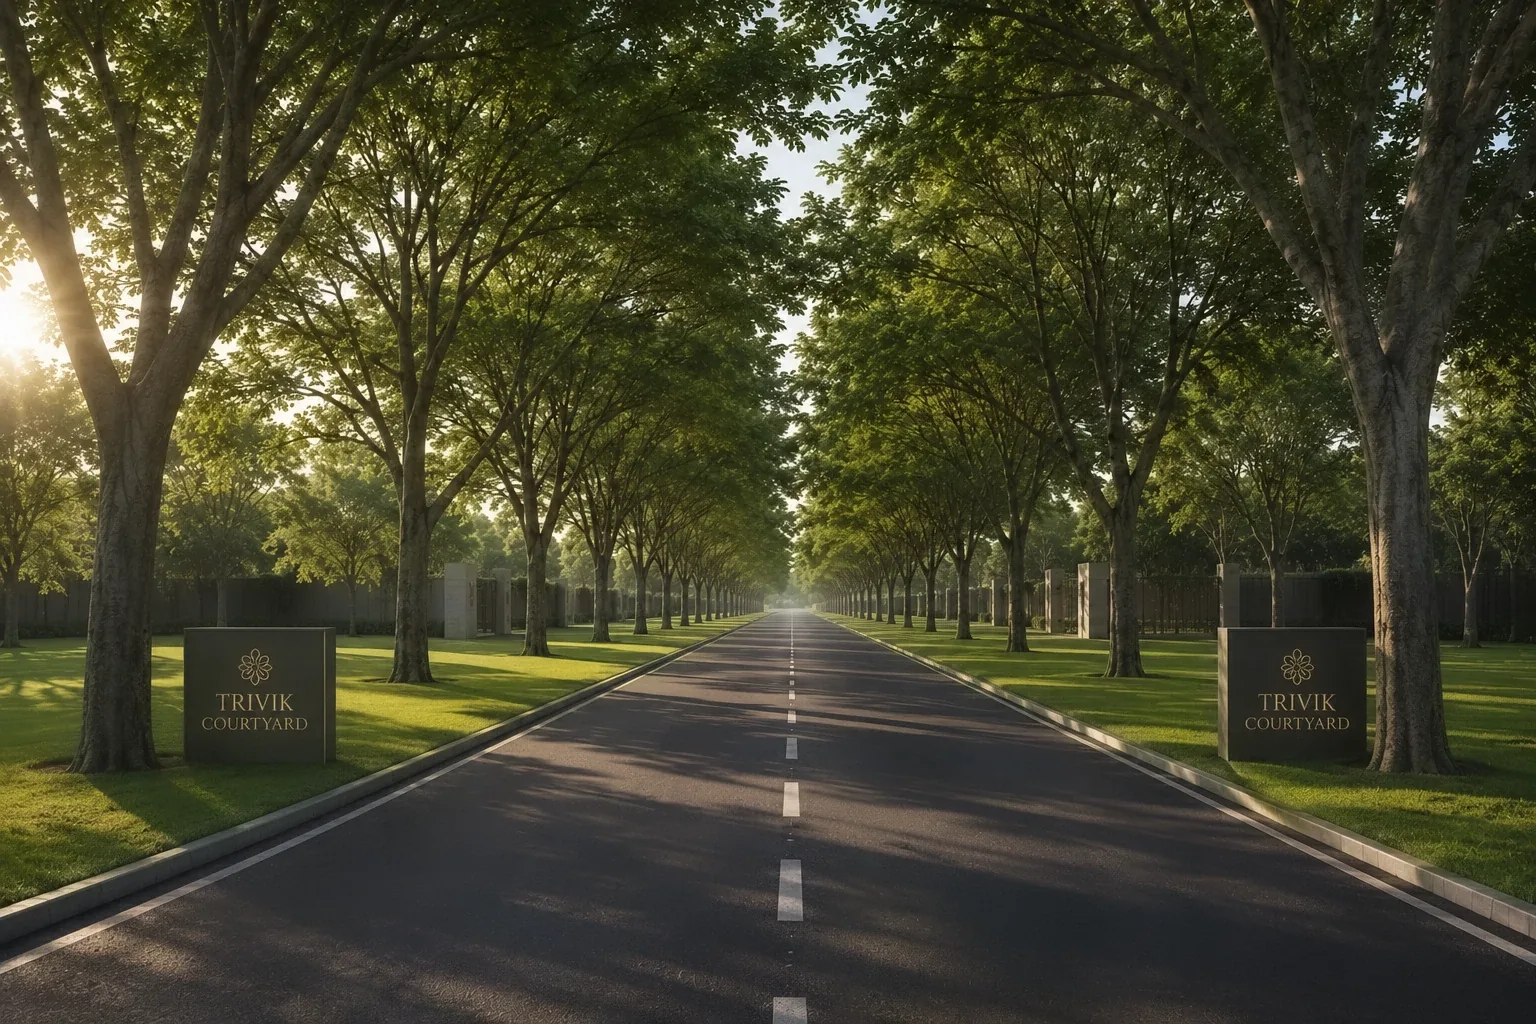
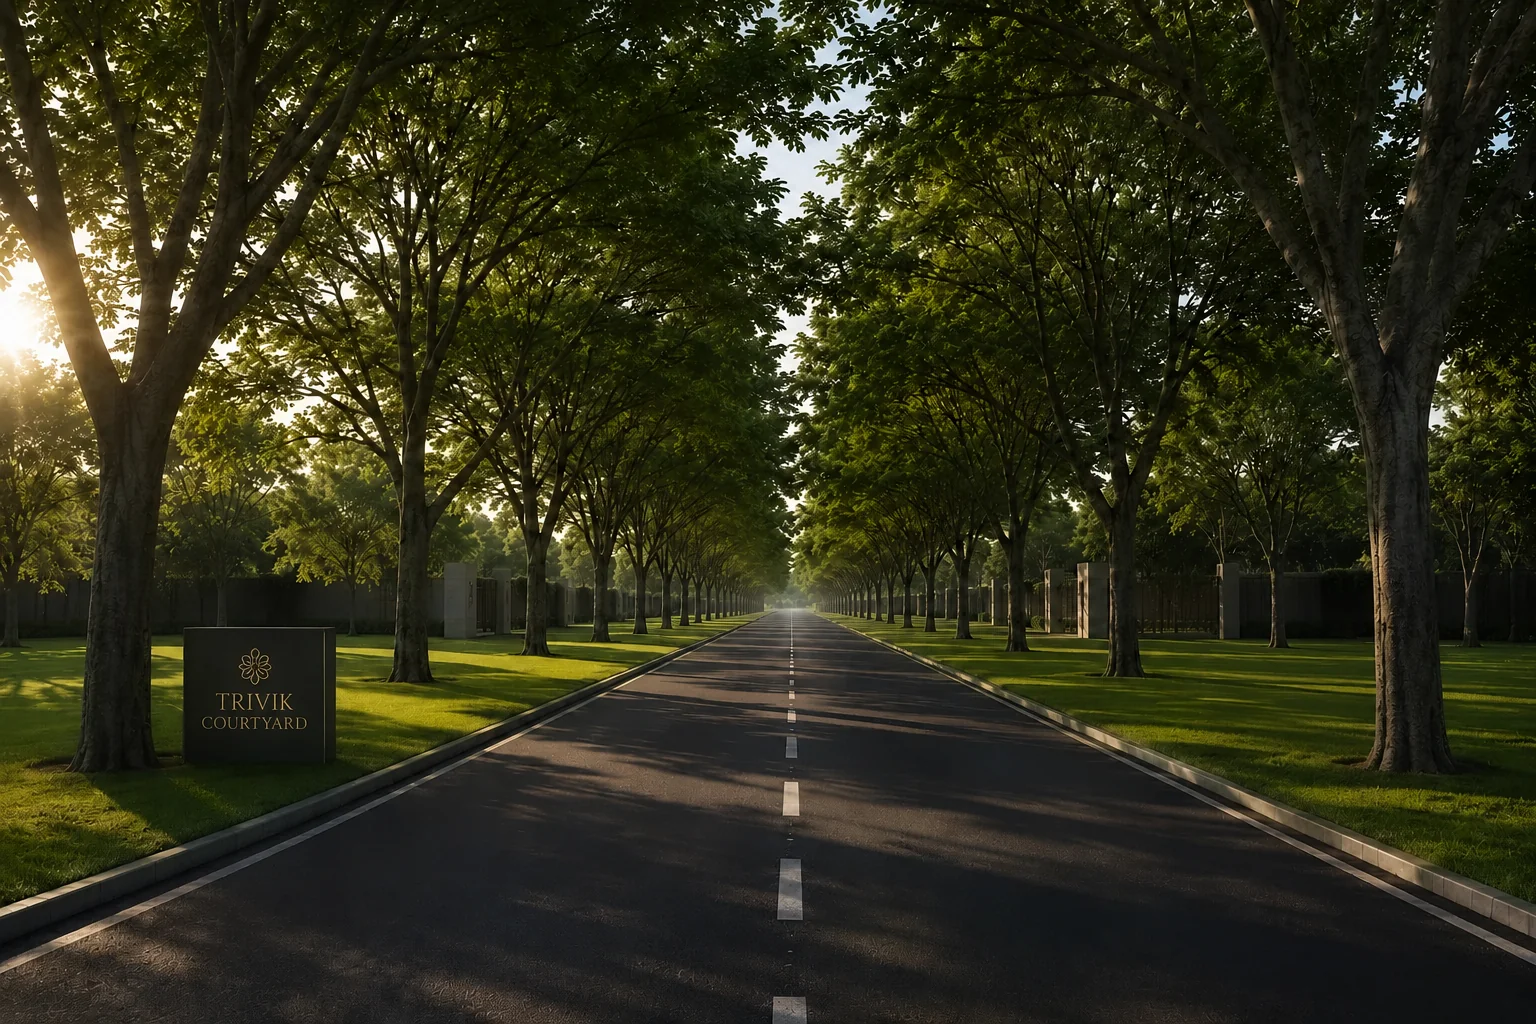
Clubhouse: use the portrait render on mobile, redesign the overlay
- Phones now get the dedicated portrait crop (clubhouse-entry-mobile.webp)
  instead of the landscape render cropped down
- That crop opens onto sky at the top, so the copy now anchors there
  instead of at the bottom — keeps the entrance signage, pool and
  landscape lighting fully visible instead of covered by text
- Converted avenue-plantation.webp, which had again landed as raw
  PNG bytes under the .webp filename

diff --git a/client/src/styles/global.css b/client/src/styles/global.css
@@ -2444,15 +2444,19 @@ h3 {
 .club2-stat em { font-style: normal; font-size: 12.5px; color: rgba(255, 255, 255, 0.68); margin-top: 5px; display: block; }
 
 @media (max-width: 900px) {
-  .club2 { min-height: min(760px, 88vh); align-items: flex-end; padding-bottom: 2.6em; }
+  /* the mobile crop opens onto sky — anchor the copy there instead of over
+     the entrance signage and pool deck lower in the frame */
+  .club2 { min-height: min(780px, 92vh); align-items: flex-start; padding-top: 6.5em; padding-bottom: 2.6em; }
+  .club2-bg { object-position: center top; }
   .club2-scrim {
     background:
-      linear-gradient(180deg, rgba(10, 9, 6, 0.15) 0%, rgba(10, 9, 6, 0.55) 50%, rgba(10, 9, 6, 0.92) 100%);
+      linear-gradient(180deg, rgba(10, 9, 6, 0.78) 0%, rgba(10, 9, 6, 0.5) 32%, rgba(10, 9, 6, 0.08) 56%, rgba(10, 9, 6, 0) 68%),
+      linear-gradient(0deg, rgba(10, 9, 6, 0.55) 0%, rgba(10, 9, 6, 0) 22%);
   }
   .club2-content { max-width: 100%; }
 }
 @media (max-width: 560px) {
-  .club2 { padding: 3em 0; min-height: min(640px, 84vh); }
+  .club2 { padding-top: 6em; min-height: min(700px, 88vh); }
   .club2-stats { gap: 16px; flex-wrap: wrap; }
 }
 

diff --git a/client/src/components/Clubhouse.jsx b/client/src/components/Clubhouse.jsx
@@ -9,7 +9,12 @@ const STATS = [
 export default function Clubhouse() {
   return (
     <section className="clubhouse-section club2" id="clubhouse">
-      <img src="images/clubhouse-entry.webp" alt="Trivik Courtyard clubhouse" className="club2-bg" />
+      <picture>
+        {/* portrait crop on phones — open sky up top leaves room for the copy
+            without covering the entrance signage or the pool deck below */}
+        <source media="(max-width: 900px)" srcSet="images/clubhouse-entry-mobile.webp" />
+        <img src="images/clubhouse-entry.webp" alt="Trivik Courtyard clubhouse" className="club2-bg" />
+      </picture>
       <span className="club2-scrim" aria-hidden="true" />
 
       <div className="container">
